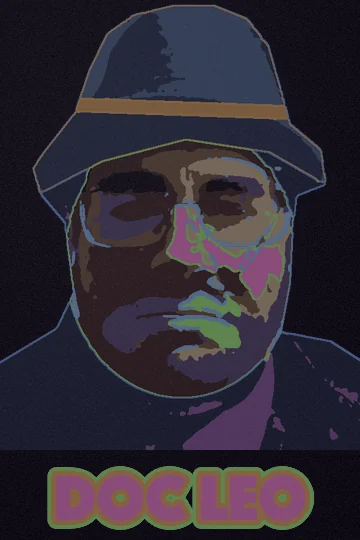
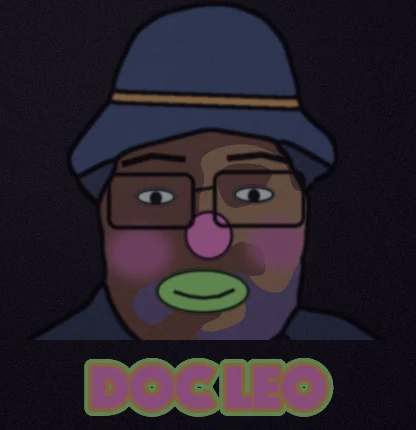
Black-light poster redrawn as a cartoon of Lewis as Doc Leo: the photo smoothed into a few round flat shapes, bold black outlines soft at the edges like flocking, the glasses, eyes, painted brows, round red nose, rouge and the white smile drawn over it where they are on the photo; square, to fill th

diff --git a/games/kit/scans/blacklight.py b/games/kit/scans/blacklight.py
@@ -1,10 +1,12 @@
 # The desk's black-light poster of Doc Leo (web/src/desk/props/blacklight.ts), made from
 # Lewis's own photo of himself as the hobo clown (the Bard of Bizarre portrait in
-# .for-lewis, not in git): cut out from the sky and the street, posterized into a few flat
-# regions (the fedora, the face, the red nose and cheeks, the white mouth makeup, the
-# stubble, the shirt, the jacket), each filled flat in a fluorescent ink on velvet black,
-# with neon outlines traced from the edges, and DOC LEO across the bottom in 70s black-light
-# poster lettering. Two pictures: the day one, muted velvet colors in plain light, and the
+# .for-lewis, not in git) and drawn as a cartoon: cut out from the sky and the street, the
+# photo smoothed of its noise, split into a few simple flat shapes with smooth edges (the
+# fedora and its band, the skin in two tones, the red nose and cheeks, the white makeup round
+# the mouth, the stubble as one beard shape, the shirt, the jacket), each in a fluorescent
+# ink, with bold black outlines soft at the edges like the flocking on a felt black-light
+# poster, the glasses, eyes and mouth inked the same way, and DOC LEO across the bottom in
+# 70s lettering. Two pictures: the day one, muted velvet colors in plain light, and the
 # night one, glowing under the tube. Only those go in git (web/public/desk/).
 #
 # Run once (needs Pillow and NumPy; the photo in .for-lewis):
@@ -18,8 +20,8 @@ from PIL import Image, ImageDraw, ImageFilter, ImageFont
 ROOT = Path(__file__).resolve().parents[3]
 PHOTO = ROOT / '.for-lewis/songs/the-bard-of-bizarre-lewie.jpg'
 OUT = Path(sys.argv[1]) if len(sys.argv) > 1 else ROOT / 'web/public/desk'
-W, H = 360, 540  # the poster, 2:3
-ART_H = 450  # the portrait above the title
+W, H = 416, 430  # the poster: as wide as the wall between the big poster and the monitor
+ART_H = 340  # the portrait above the title
 
 # The photo, 700 x 700 (it is square): Lewis's silhouette (hat, face, shoulders), traced
 # round by hand, so the sky, the house and the car behind him go to velvet black.
@@ -34,6 +36,16 @@ OUTLINE = [
 BRIM = [(100, 300), (124, 300), (220, 250), (350, 216), (480, 236), (560, 282), (600, 290)]  # its underside
 FACE = (344, 404, 182, 214)  # an ellipse: center, radii (the ears and neck join it by color)
 BAND = ((176, 172), (512, 184))  # the hat band's bottom edge, a line just above the brim
+# his face, drawn as a cartoon over the photo's shapes, traced on the photo (700-scale): the
+# glasses, the eyes, the painted eyebrows, the round red nose, the red cheeks, the white
+# makeup round the mouth and the smile in it
+FEATURES = dict(
+    lensL=(180, 290, 328, 386), lensR=(358, 286, 514, 383),
+    eyeL=(228, 316, 296, 346), eyeR=(392, 312, 462, 342),
+    browL=[(205, 276), (255, 262), (312, 268)], browR=[(382, 266), (440, 260), (492, 272)],
+    nose=(310, 354, 392, 438), cheekL=(180, 380, 290, 470), cheekR=(415, 368, 515, 455),
+    mouth=(262, 452, 420, 528), smile=[(292, 490), (318, 498), (342, 501), (368, 498), (394, 487)],
+)
 
 INK = {
     'hat': (40, 110, 255),  # electric blue
@@ -51,7 +63,7 @@ INK = {
 }
 # how bright each fill is (the outlines are always full): the face only a glow, so the
 # makeup and the features stand out on it, as on a real flocked poster
-SHADE = {'hat': 0.3, 'hatlit': 0.55, 'band': 0.9, 'shade': 0.22, 'face': 0.45, 'lit': 0.78, 'red': 1.0, 'white': 1.0, 'stubble': 0.42, 'brow': 0, 'shirt': 0.6, 'jacket': 0.22}
+SHADE = {'hat': 0.5, 'hatlit': 0.6, 'band': 0.95, 'shade': 0.45, 'face': 0.68, 'lit': 0.68, 'red': 1.0, 'white': 1.0, 'stubble': 0.5, 'brow': 0, 'shirt': 0.65, 'jacket': 0.3}
 VELVET = np.array([14, 10, 20], float)
 
 
@@ -87,18 +99,14 @@ def regions(rgb: np.ndarray, inside: np.ndarray) -> np.ndarray:
     lab[clothes] = PARTS.index('jacket')
     lab[clothes & (b > g + 10) & (r > g) & (lum > 60)] = PARTS.index('shirt')
     lab[hat] = PARTS.index('hat')
-    lab[hat & (lum > 120)] = PARTS.index('hatlit')
     (x0, y0), (x1, y1) = BAND
     edge = y0 + (xs - x0) * (y1 - y0) / (x1 - x0)
     lab[hat & (ys < edge) & (ys > edge - 20)] = PARTS.index('band')
-    # the skin in three flat tones by how lit it is; the grey stubble a violet shadow
+    # the skin in two flat tones by how lit it is; the grey stubble one violet beard shape
+    # (the makeup, the glasses and the eyes are drawn over it: FEATURES)
     lab[face] = PARTS.index('shade')
-    lab[face & ~skin & (lum > 80)] = PARTS.index('stubble')
-    lab[face & skin & (lum > 85)] = PARTS.index('face')
-    lab[face & skin & (lum > 150)] = PARTS.index('lit')
-    lab[face & (r > 170) & (r - g > 85) & (r - b > 70) & (ys > 320) & (ys < 470)] = PARTS.index('red')
-    lab[face & (lum > 160) & (sat < 70) & (ys > 430) & (ys < 540) & (np.abs(xs - 340) < 95)] = PARTS.index('white')
-    lab[face & (lum < 60) & (sat < 60) & (ys > 250) & (ys < 300)] = PARTS.index('brow')
+    lab[face & (lum > 115)] = PARTS.index('face')
+    lab[face & ~skin & (lum > 80) & (ys > 430)] = PARTS.index('stubble')
     return lab
 
 
@@ -137,56 +145,111 @@ def thicken(mask: np.ndarray, r: int) -> np.ndarray:
     return np.asarray(img.filter(ImageFilter.MaxFilter(r)), float) / 255
 
 
-def portrait() -> tuple[np.ndarray, np.ndarray]:
-    """The inks (0-255, before shading for day or night) and how bright each pixel is."""
+def soften(rgb: np.ndarray) -> np.ndarray:
+    """The photo without its noise (the stubble's speckle, the felt's fuzz): flat areas."""
+    img = Image.fromarray(rgb.astype(np.uint8))
+    for _ in range(2):
+        img = img.filter(ImageFilter.MedianFilter(9))
+    return np.asarray(img.filter(ImageFilter.GaussianBlur(2)), float)
+
+
+def rounded(lab: np.ndarray, sigma: float) -> np.ndarray:
+    """Each region's outline smoothed into a cartoon curve: every label's mask blurred, and
+    each pixel goes to whichever is strongest there (specks smaller than sigma vanish)."""
+    best = np.full(lab.shape, -1.0)
+    out = np.zeros_like(lab)
+    for k in np.unique(lab):
+        m = Image.fromarray(((lab == k) * 255).astype(np.uint8)).filter(ImageFilter.GaussianBlur(sigma))
+        v = np.asarray(m, float)
+        out = np.where(v > best, k, out)
+        best = np.maximum(best, v)
+    return out
+
+
+def soft(mask: np.ndarray, grow: int, blur: float) -> np.ndarray:
+    """A line grown to `grow` pixels and its edge softened (the felt's fuzz), 0 to 1."""
+    img = Image.fromarray((mask * 255).astype(np.uint8)).filter(ImageFilter.MaxFilter(grow))
+    return np.asarray(img.filter(ImageFilter.GaussianBlur(blur)), float) / 255
+
+
+def mask(draw) -> np.ndarray:
+    """A shape drawn at twice the size (for smooth curves), 0 to 1 at 700 x 700."""
+    m = Image.new('L', (1400, 1400), 0)
+    draw(ImageDraw.Draw(m), lambda box: [v * 2 for v in box])
+    return np.asarray(m.resize((700, 700), Image.LANCZOS), float) / 255
+
+
+def features(ink: np.ndarray, level: np.ndarray, black: np.ndarray) -> None:
+    """The cartoon face (FEATURES): fills into ink and level, the black ink lines into black."""
+    F = FEATURES
+    pts = lambda line: [(x * 2, y * 2) for x, y in line]
+
+    def fill(m: np.ndarray, color, lit: float) -> None:
+        ink[:] = ink * (1 - m[..., None]) + np.array(color, float) * m[..., None]
+        level[:] = level * (1 - m) + lit * m
+
+    # the red cheeks, soft at the edges like rouge
+    for k in ('cheekL', 'cheekR'):
+        m = mask(lambda d, sc, k=k: d.ellipse(sc(F[k]), fill=255))
+        m = np.asarray(Image.fromarray((m * 255).astype(np.uint8)).filter(ImageFilter.GaussianBlur(10)), float) / 255
+        fill(m * 0.85, INK['red'], 0.8)
+    fill(mask(lambda d, sc: d.ellipse(sc(F['mouth']), fill=255)), INK['white'], 1.0)
+    fill(mask(lambda d, sc: d.ellipse(sc(F['nose']), fill=255)), INK['red'], 1.0)
+    for k in ('eyeL', 'eyeR'):
+        fill(mask(lambda d, sc, k=k: d.ellipse(sc(F[k]), fill=255)), (225, 240, 255), 0.9)
+    lines = mask(lambda d, sc: (
+        [d.rounded_rectangle(sc(F[k]), 36, outline=255, width=14) for k in ('lensL', 'lensR')],
+        d.line([(656, 640), (716, 630)], fill=255, width=12),  # the bridge
+        [d.ellipse(sc(F[k]), outline=255, width=10) for k in ('eyeL', 'eyeR', 'nose', 'mouth')],
+        [d.line(pts(F[k]), fill=255, width=22, joint='curve') for k in ('browL', 'browR')],
+        d.line(pts(F['smile']), fill=255, width=12, joint='curve'),
+    ))
+    # the pupils, looking at you
+    for k in ('eyeL', 'eyeR'):
+        x0, y0, x1, y1 = F[k]
+        cx, cy = (x0 + x1) / 2, (y0 + y1) / 2 + 2
+        lines = np.maximum(lines, mask(lambda d, sc, cx=cx, cy=cy: d.ellipse(sc((cx - 10, cy - 11, cx + 10, cy + 11)), fill=255)))
+    soft_lines = np.asarray(Image.fromarray((lines * 255).astype(np.uint8)).filter(ImageFilter.GaussianBlur(1.6)), float) / 255
+    black[:] = np.maximum(black, soft_lines)
+
+
+def portrait() -> tuple[np.ndarray, np.ndarray, np.ndarray]:
+    """The inks (0-255), how bright each is, and the black flocking over them (0 to 1)."""
     photo = Image.open(PHOTO).convert('RGB')
     side = 700
-    big = photo.resize((side, side), Image.LANCZOS)
-    rgb = np.asarray(big, float)
+    rgb = soften(np.asarray(photo.resize((side, side), Image.LANCZOS), float))
     inside = silhouette(side)
-    lab = tidy(regions(rgb, inside))
+    lab = rounded(regions(rgb, inside), 10)
+    # the shading inside the skin is flat color, no lines; the skin's two tones and the
+    # stubble are one shape for the outlines
+    skin = [PARTS.index(p) for p in ('shade', 'face', 'stubble')]
     ink = np.zeros((side, side, 3))
     level = np.zeros((side, side))
     for i, name in enumerate(PARTS[1:], 1):
         sel = lab == i
         ink[sel] = INK[name]
         level[sel] = SHADE[name]
-    # the features traced in neon: the edges of the photo inside the face and the hat (the
-    # glasses, the eyes, the mouth, the ears), and the outline round every region
-    gray = rgb @ np.array([0.299, 0.587, 0.114])
-    e = edges(gray) * (inside > 0.5)
-    face = np.isin(lab, [PARTS.index(p) for p in ('shade', 'face', 'lit', 'red', 'white', 'stubble', 'brow')])
-    feat = thicken(e * face > 0.6, 3)
-    group = np.select([lab == 0, np.isin(lab, [PARTS.index(p) for p in ('hat', 'hatlit')]), face, lab == PARTS.index('band')], [0, 1, 2, 4], 3)
-    group = np.where(np.isin(lab, [PARTS.index('red'), PARTS.index('white')]), lab + 10, group)
-    out = thicken(boundaries(group), 3) * (inside > 0.02)
-    # the outline: green round the face, orange round the hat, blue round the clothes
-    line_ink = np.zeros_like(ink)
-    line_ink[:] = INK['jacket']
-    line_ink[face | (lab == PARTS.index('shirt'))] = INK['white']
-    line_ink[np.isin(lab, [PARTS.index('hat'), PARTS.index('hatlit'), PARTS.index('band')])] = INK['band']
-    ink = np.where(out[..., None] > 0.5, line_ink, ink)
-    level = np.maximum(level, out)
-    # the features (the glasses, the eyes, the mouth) in electric blue on the face
-    ink = np.where(feat[..., None] > 0.5, np.array((70, 150, 255), float), ink)
-    level = np.maximum(level, feat)
-    # crop to the poster's portrait (2:3 less the title), centered on the face
-    w = int(side * W / ART_H)
-    x0 = 342 - w // 2
-    x0 = max(0, min(side - w, x0))
-    ink = ink[:, x0 : x0 + w]
-    level = level[:, x0 : x0 + w]
-    ink = np.asarray(Image.fromarray(ink.astype(np.uint8)).resize((W, ART_H), Image.LANCZOS), float)
-    level = np.asarray(Image.fromarray((level * 255).astype(np.uint8)).resize((W, ART_H), Image.LANCZOS), float) / 255
-    return ink, level
+    group = np.where(np.isin(lab, skin), 100, lab)
+    line = soft(boundaries(group) & (inside > 0.02), 7, 1.8)
+    black = line.copy()
+    features(ink, level, black)
+    # crop to the poster's portrait, the full width of the photo
+    hgt = int(side * ART_H / W)
+    crop = lambda a: a[:hgt]
+    ink, level, black = crop(ink), crop(level), crop(black)
+    size = (W, ART_H)
+    ink = np.asarray(Image.fromarray(ink.astype(np.uint8)).resize(size, Image.LANCZOS), float)
+    level = np.asarray(Image.fromarray((level * 255).astype(np.uint8)).resize(size, Image.LANCZOS), float) / 255
+    black = np.asarray(Image.fromarray((black * 255).astype(np.uint8)).resize(size, Image.LANCZOS), float) / 255
+    return ink, level, black
 
 
 def title(size: tuple[int, int]) -> tuple[np.ndarray, np.ndarray]:
     """DOC LEO in fat 70s letters: a magenta face, an orange tube round it, green outside."""
     w, h = size
-    font = ImageFont.truetype('/System/Library/Fonts/Supplemental/Phosphate.ttc', 66, index=1)
+    font = ImageFont.truetype('/System/Library/Fonts/Supplemental/Phosphate.ttc', 62, index=1)
     layers = []
-    for grow, color in ((9, INK['white']), (5, INK['band']), (0, INK['red'])):
+    for grow, color in ((8, INK['white']), (4, INK['band']), (0, INK['red'])):
         m = Image.new('L', size, 0)
         ImageDraw.Draw(m).text((w / 2, h / 2 + 2), 'DOC LEO', font=font, anchor='mm', fill=255, stroke_width=grow, stroke_fill=255)
         layers.append((np.asarray(m, float) / 255, color))
@@ -210,20 +273,22 @@ def compose(night: bool) -> Image.Image:
     rng = np.random.default_rng(1994)
     ink = np.zeros((H, W, 3))
     level = np.zeros((H, W))
-    pi, pl = portrait()
-    ink[:ART_H], level[:ART_H] = pi, pl
+    black = np.zeros((H, W))
+    ink[:ART_H], level[:ART_H], black[:ART_H] = portrait()
     ti, tl = title((W, H - ART_H))
     ink[ART_H:], level[ART_H:] = ti, tl
     base = velvet(rng)
     if night:
         lit = ink * level[..., None]
         glow = np.asarray(Image.fromarray(np.clip(lit, 0, 255).astype(np.uint8)).filter(ImageFilter.GaussianBlur(6)), float)
-        img = base * 0.6 + lit + glow * 0.7
+        img = base * 0.6 + lit + glow * 0.55
     else:
         # plain light: the inks read as chalky pastels on the velvet, no glow
         grey = ink.mean(-1, keepdims=True)
         muted = (ink * 0.45 + grey * 0.35) * 0.75 + 30
         img = base * (1 - level[..., None] * 0.85) + muted * level[..., None] * 0.85
+    # the black flocking over it all (it doesn't glow)
+    img = img * (1 - black[..., None] * 0.92) + VELVET * 0.5 * black[..., None] * 0.92
     return Image.fromarray(np.clip(img, 0, 255).astype(np.uint8))
 
 
